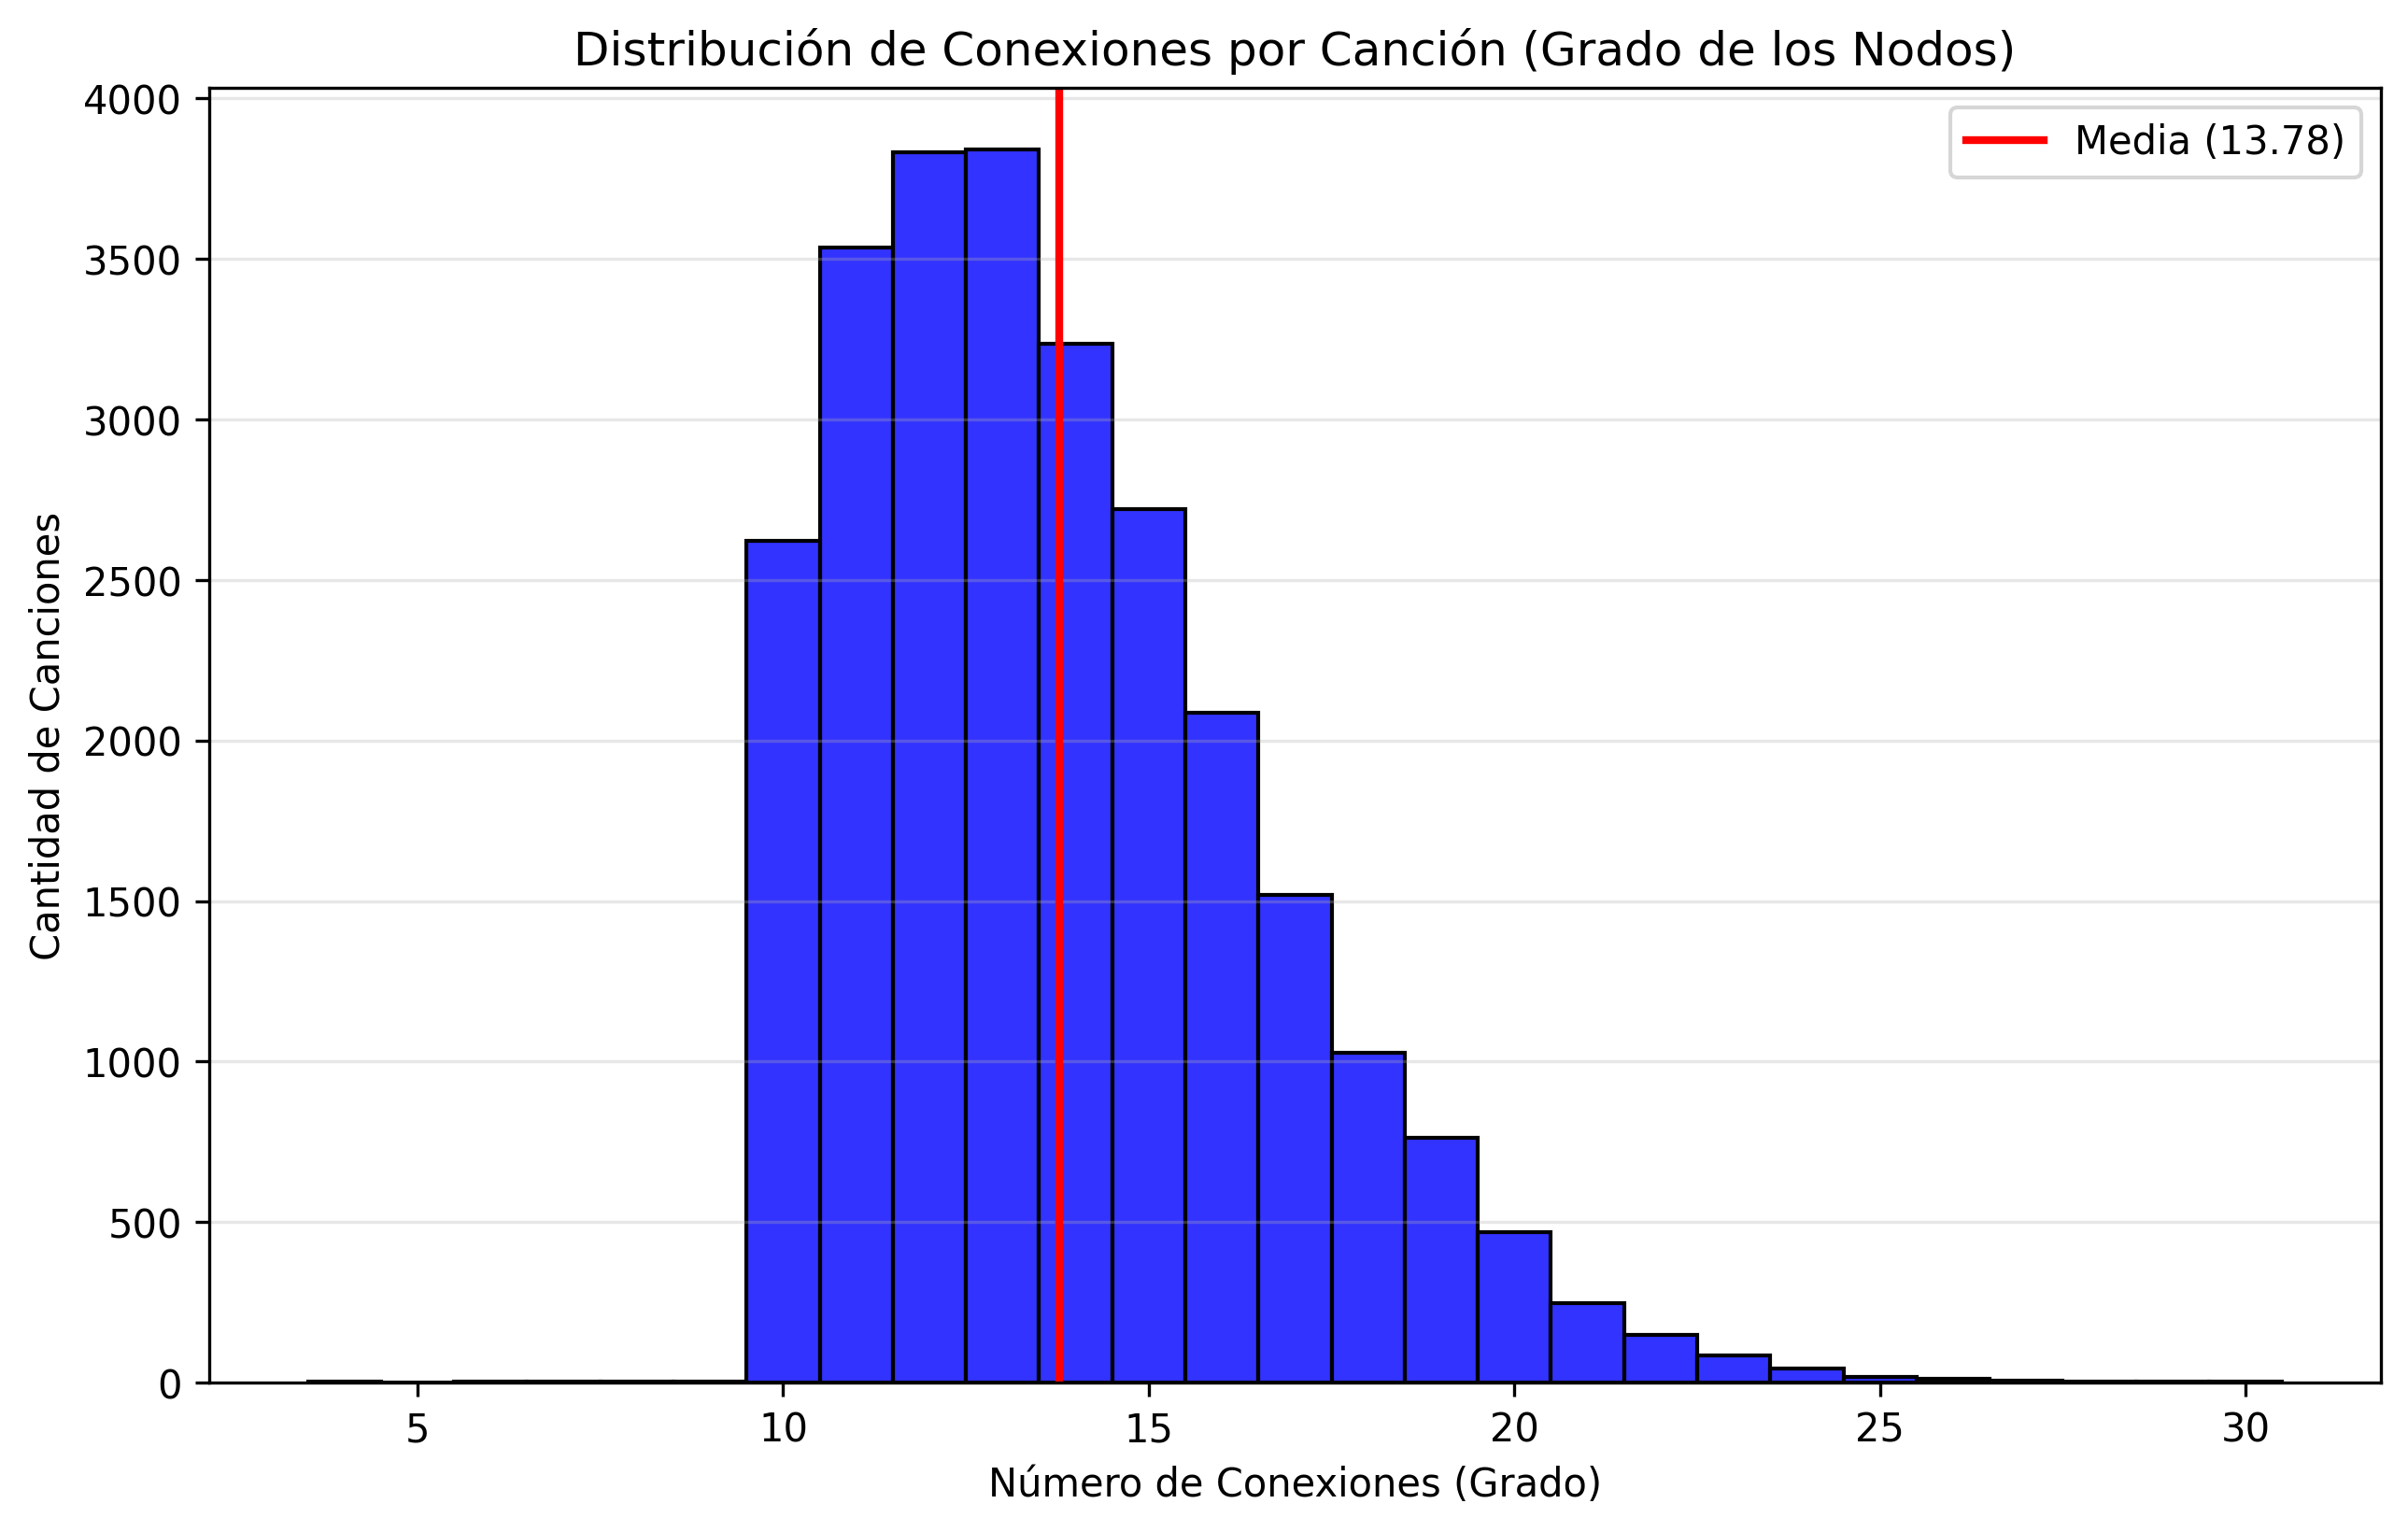
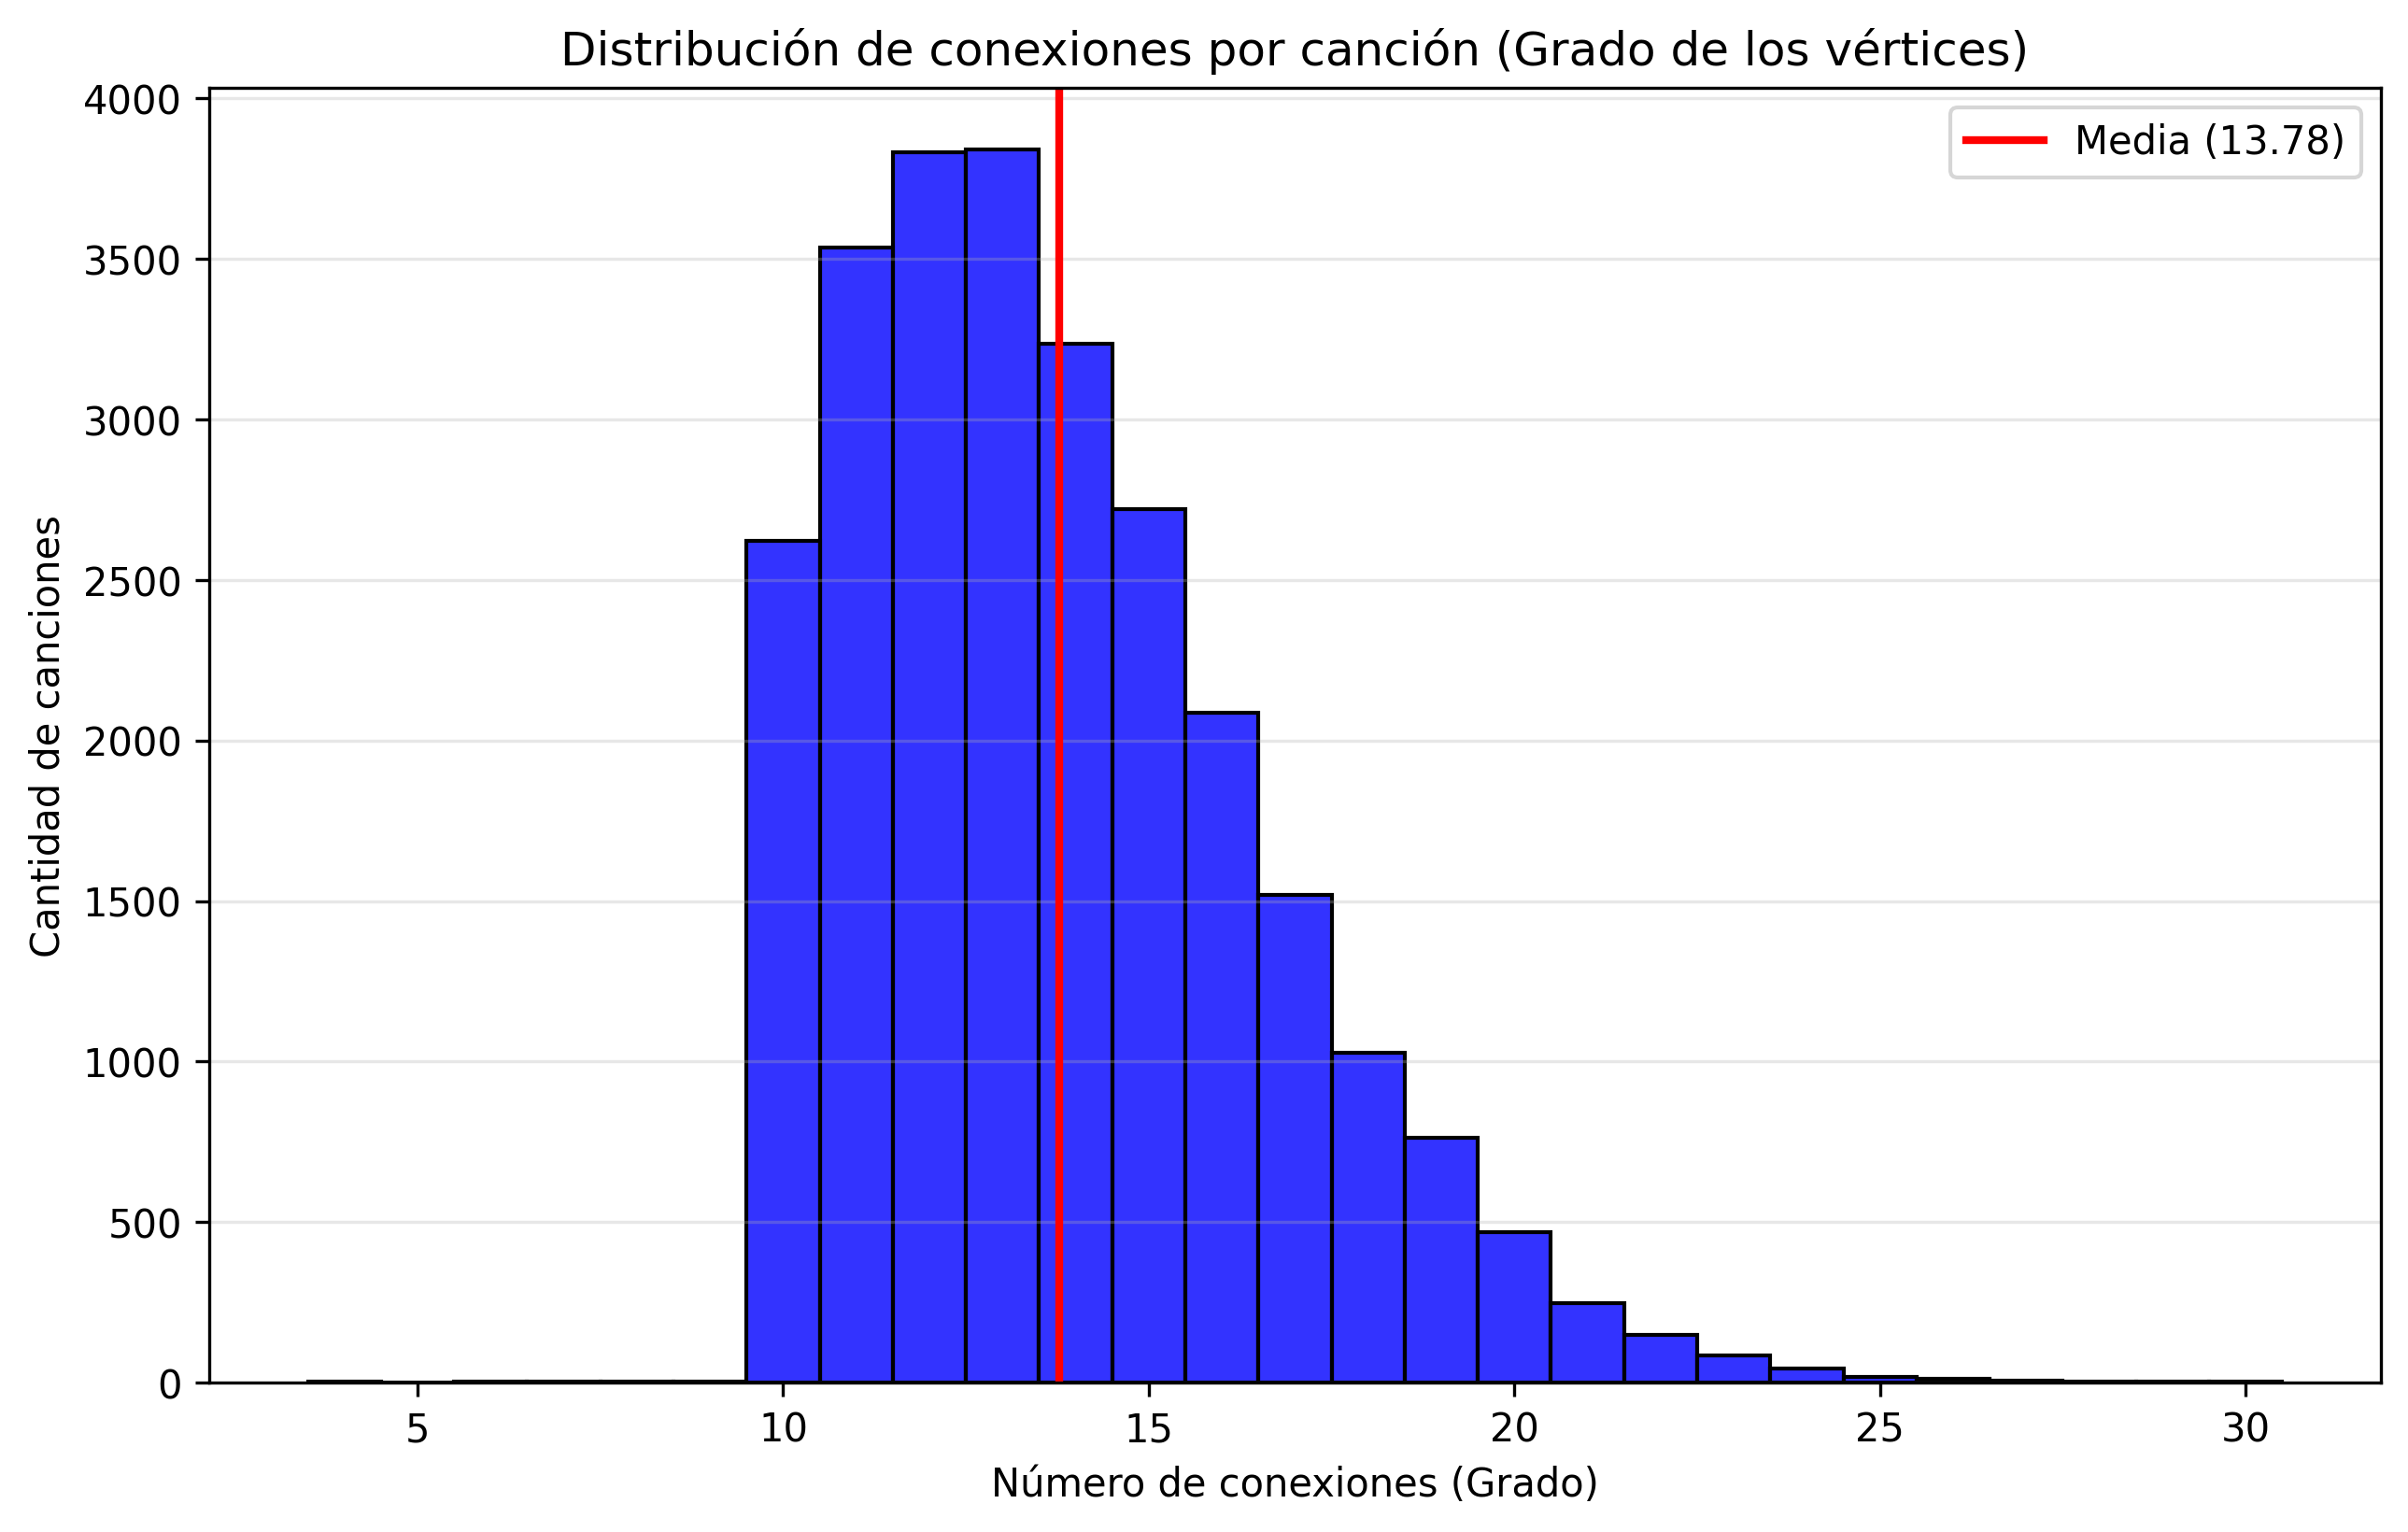
c

Changed region(s): [[0.2172, 0.0, 0.8379, 0.0622], [0.0, 0.3421, 0.031, 0.622], [0.4034, 0.964, 0.6517, 0.9951]]

diff --git a/Crear_grafo_con_generos_2/analisis_grafo.py b/Crear_grafo_con_generos_2/analisis_grafo.py
@@ -56,9 +56,9 @@ sns.histplot(grados, discrete=True, color='blue', alpha=0.8)
 #linea roja indicando la media
 plt.axvline(x=media_grados, color='red', linewidth=2, label=f'Media ({media_grados:.2f})')
 
-plt.title('Distribución de Conexiones por Canción (Grado de los Nodos)')
-plt.xlabel('Número de Conexiones (Grado)')
-plt.ylabel('Cantidad de Canciones')
+plt.title('Distribución de conexiones por canción (Grado de los vértices)')
+plt.xlabel('Número de conexiones (Grado)')
+plt.ylabel('Cantidad de canciones')
 
 plt.legend() 
 plt.grid(axis='y', alpha=0.3)